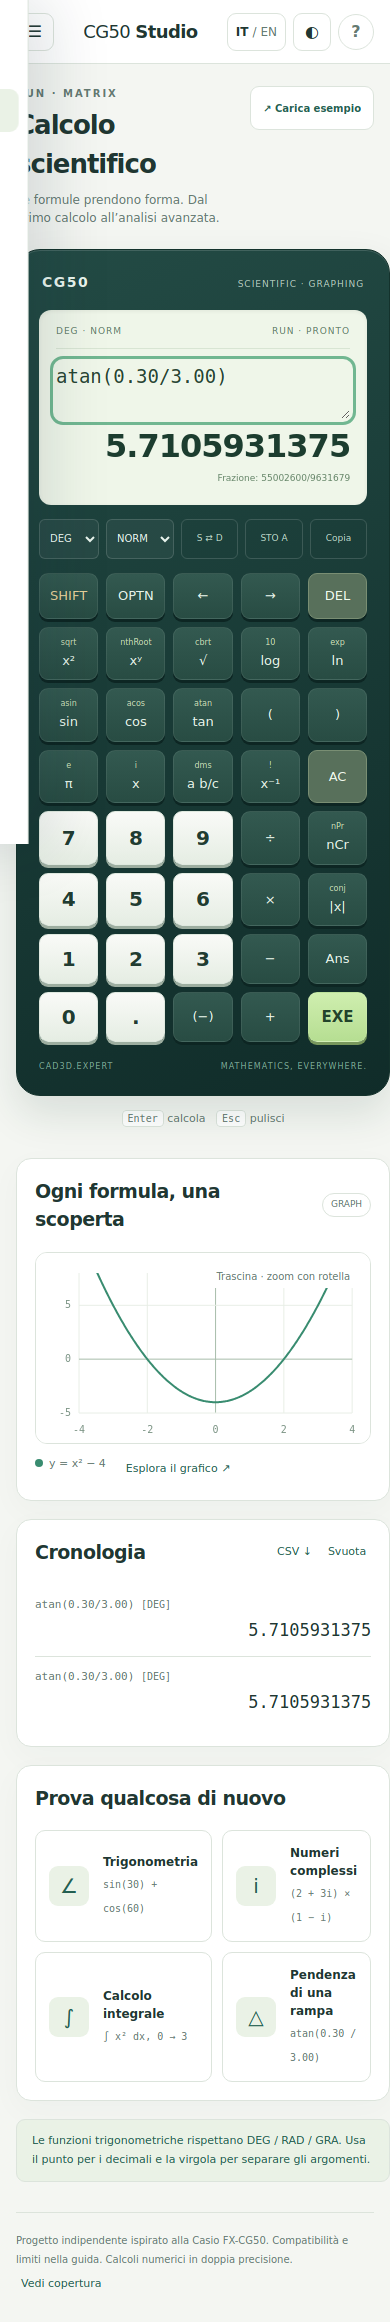
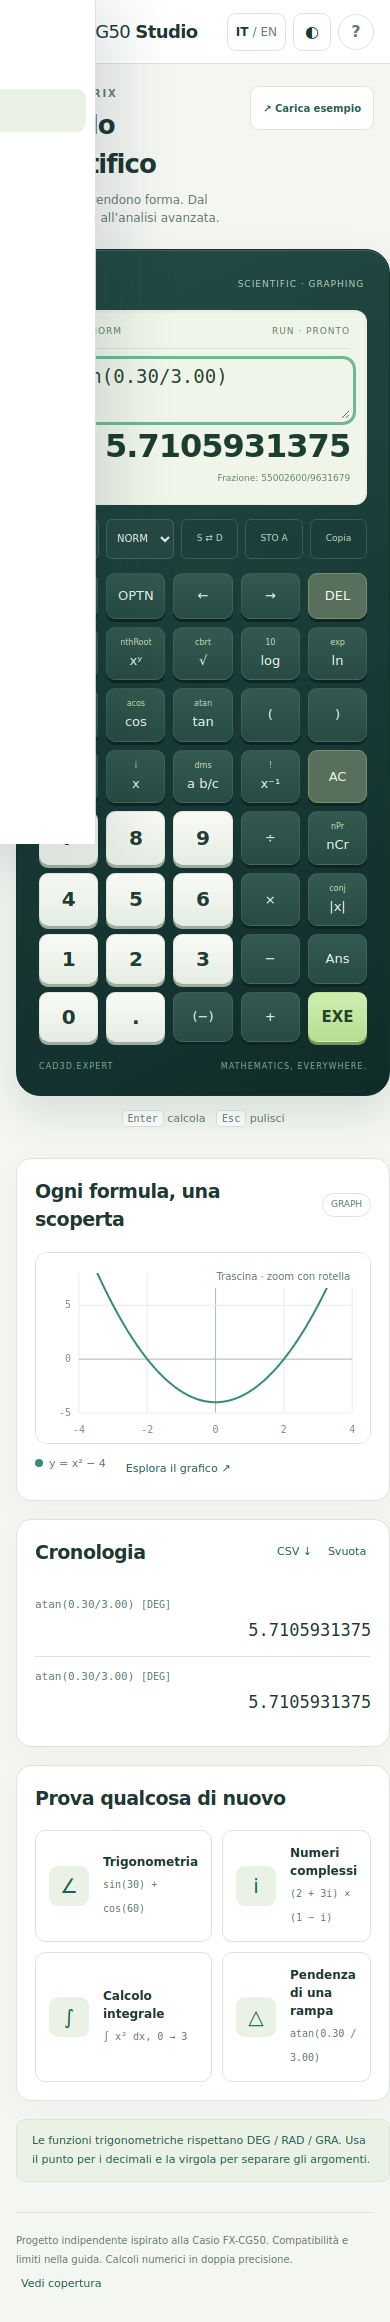
Use portable calculator and zoom symbols; refresh screenshots

Changed region(s): [[0.0308, 0.0, 0.2462, 0.3721]]

diff --git a/cg50/app.js b/cg50/app.js
@@ -48,7 +48,7 @@ const L = (it, en) => (lang === "it" ? it : en);
 const modes = [
   [
     "calc",
-    "⌗",
+    "#",
     "Calcolo scientifico",
     "Scientific calculator",
     "RUN · MATRIX",
@@ -824,7 +824,7 @@ function graphUI() {
   return `<div class="two-col">${card(L("Funzioni", "Functions"), rows + `<div class="fields">${field("min", L("Da x / t", "From x / t"), "number")}${field("max", L("A x / t", "To x / t"), "number")}${field("ymin", "y min", "number")}${field("ymax", "y max", "number")}</div><div class="parameter">${field("a", L("Parametro a (grafico dinamico)", "Parameter a (dynamic graph)"), "number")}<input id="dynamic-a" type="range" min="-5" max="5" step="0.1" value="${esc(get("a"))}" aria-label="Parameter a"></div><div class="row">${btn("run", L("Disegna", "Plot"))}${btn("animate", L("▶ Anima a", "▶ Animate a"), true)}</div>`)}<div class="stack">${card(
     L("Piano cartesiano", "Coordinate plane"),
     chart() +
-      `<div class="canvas-actions">${btn("zoom-in", "＋", true)}${btn("zoom-out", "−", true)}${btn("auto-range", L("Adatta", "Fit"), true)}${btn("reset-view", L("Ripristina", "Reset"), true)}${btn("png", "PNG ↓", true)}</div><div id="legend" class="chart-caption"></div><div class="fields">${select(
+      `<div class="canvas-actions">${btn("zoom-in", "+", true)}${btn("zoom-out", "−", true)}${btn("auto-range", L("Adatta", "Fit"), true)}${btn("reset-view", L("Ripristina", "Reset"), true)}${btn("png", "PNG ↓", true)}</div><div id="legend" class="chart-caption"></div><div class="fields">${select(
         "analysis",
         L("Analizza Y1 (cartesiana)", "Analyze Y1 (Cartesian)"),
         [
